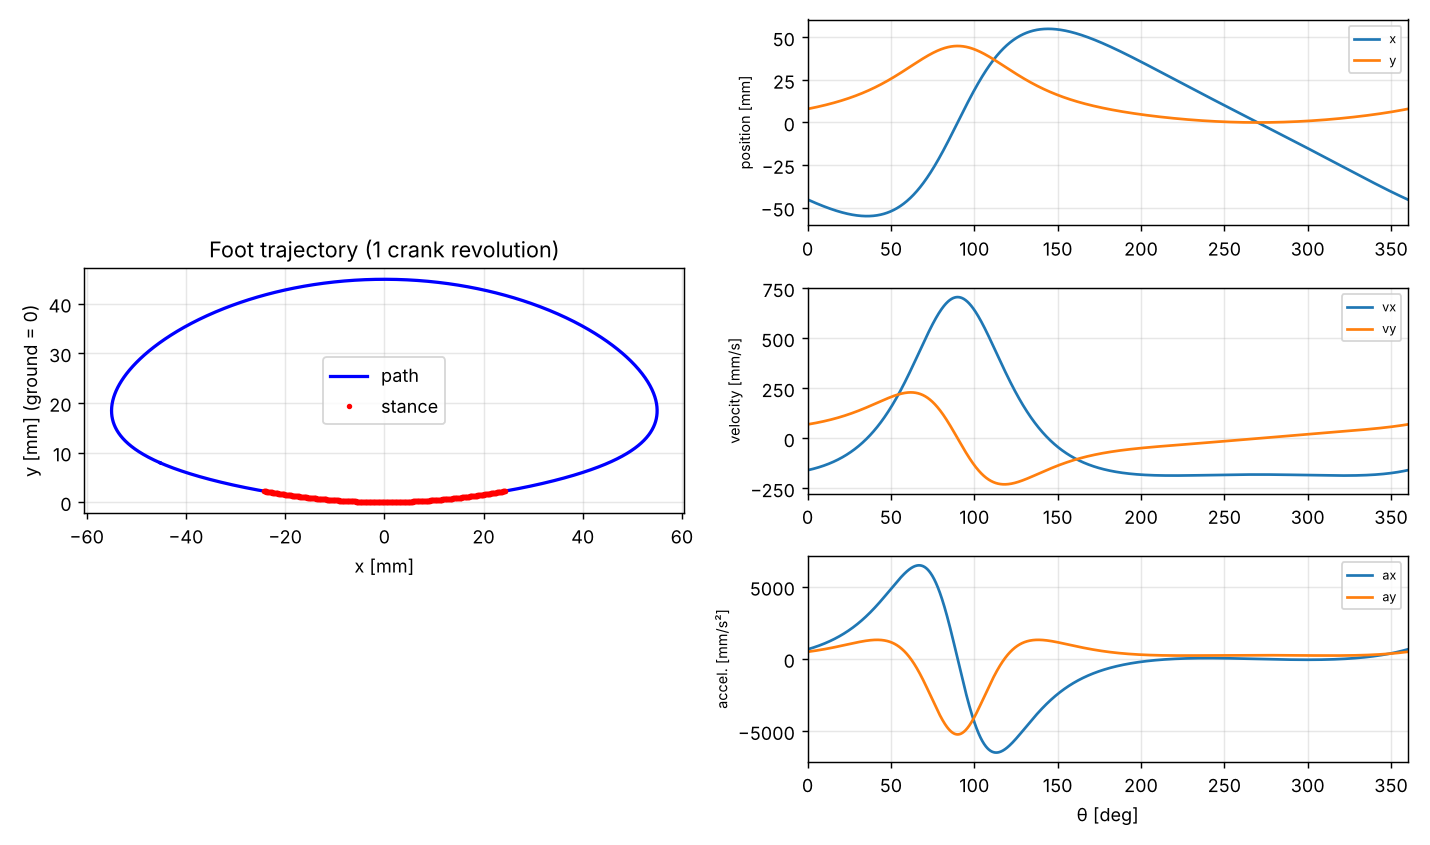
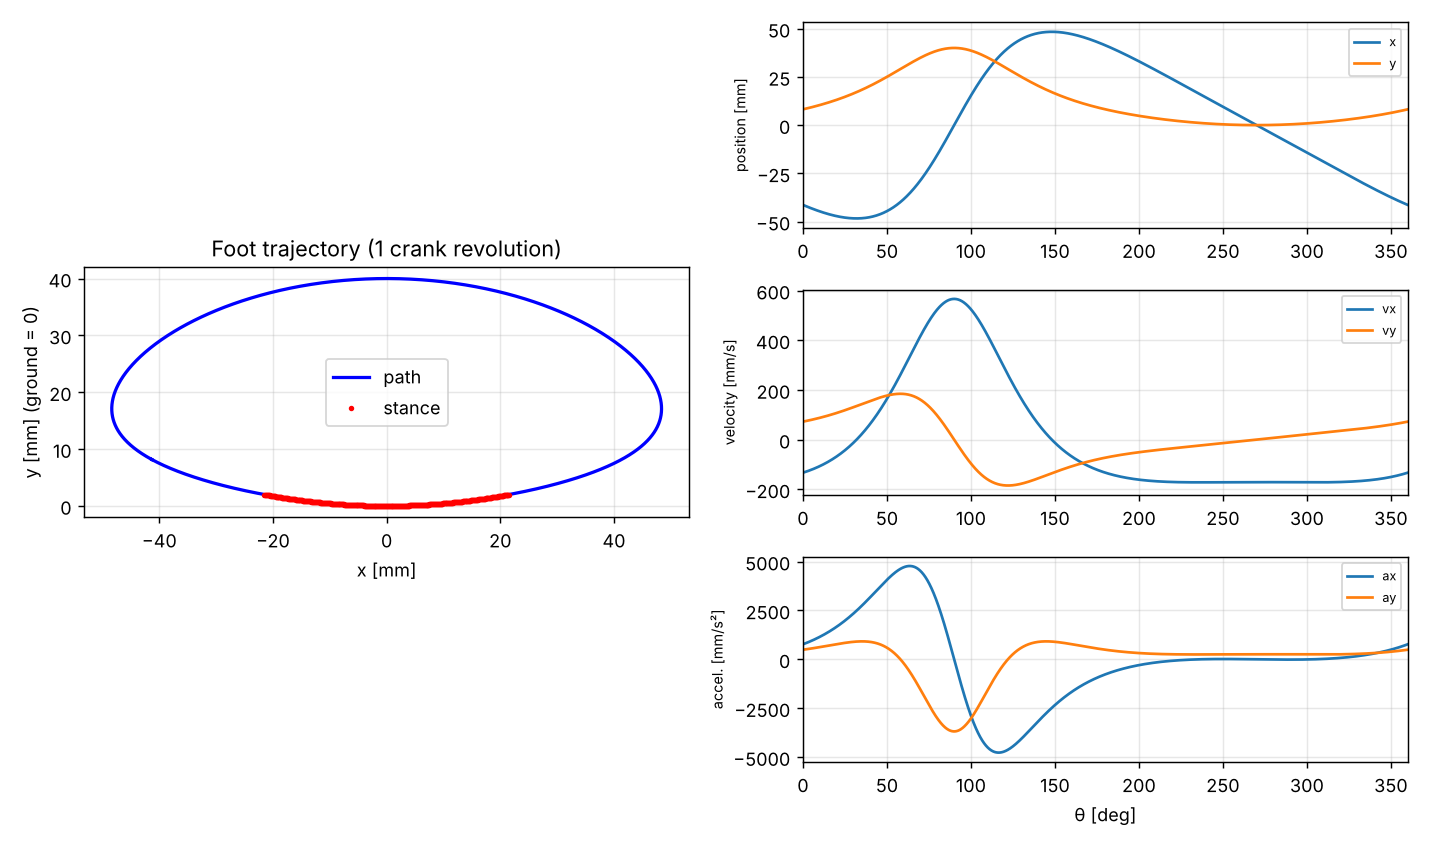
Use crank radius r = 20 mm (matches Simscape model); update results and figures

diff --git a/simulation/Symbolic_Math_verFinally.m b/simulation/Symbolic_Math_verFinally.m
@@ -27,7 +27,7 @@ fprintf('--- DOF (Grubler-Equation) ---\n Nl=%d  J1=%d  J2=%d  ->  F = %d\n\n',N
 syms r d L H omega positive      % ขนาดทางเรขาคณิต และความเร็วเชิงมุมคงที่
 syms th real                     % มุมก้านหมุน  th = omega*t
 %% STEP 1b : ค่าพารามิเตอร์ตัวเลข (หน่วย mm, rad/s) - ใช้ชุดเดียวกันทั้งไฟล์
-p.r = 22.465;  p.d = 50.00;  p.L = 165.22;  p.H = 273.582;  p.w = 2*pi;   % 60 rpm
+p.r = 20.00;  p.d = 50.00;  p.L = 165.22;  p.H = 273.582;  p.w = 2*pi;   % 60 rpm
 assert(p.d > p.r && p.L > p.d + p.r, 'ค่าพารามิเตอร์ละเมิดเงื่อนไขการประกอบ');
 %% STEP 2 : ตำแหน่งหมุด และปลอก
 P = [ r*cos(th); r*sin(th) ];

diff --git a/README.md b/README.md
@@ -30,7 +30,7 @@
 
 ![แผนภาพลิงก์และจุดต่อของกลไกเดินขาเดียว](media/links_joints.png)
 
-ก้านหมุน (crank) รัศมี $r$ หมุนรอบจุด $O$ ที่ 60 rpm หมุด $P$ บนก้านหมุนขับก้านแดงยาว $L$ ซึ่งลอดผ่านปลอก $Y$ ที่ $(0, d)$ ไปสิ้นสุดที่ปลายบน $T$ ขาต่อกับ $T$ และวิ่งผ่านตัวเลื่อนในร่องแนวนอน ขาจึงตั้งตรงเสมอ เท้า $F$ อยู่ใต้ $T$ เป็นระยะ $H$
+ก้านหมุน (crank) รัศมี $r$ หมุนรอบจุด $O$ ที่ 60 rpm หมุด $P$ บนก้านหมุนขับก้านแดงยาว $L$ ซึ่งลอดผ่านปลอก $Y$ ที่ $(0, d)$ ไปสิ้นสุดที่ปลายบน $T$ ขาต่อกับ $T$ ผ่านแขนสั้นที่ยื่นไปตามแนวแกนก้านหมุน และวิ่งผ่านตัวเลื่อนบนแกนนอนซึ่งอยู่ต่ำกว่า $O$ 50 mm ขาจึงตั้งตรงเสมอ เมื่อมองด้านหน้า เท้า $F$ อยู่ใต้ $T$ เป็นระยะ $H$
 
 | ลิงก์ | ชิ้นส่วน |
 |---|---|
@@ -78,17 +78,17 @@ v=\omega\frac{dF}{d\theta},\qquad a=\omega^2\frac{d^2F}{d\theta^2}
 
 ### ผลลัพธ์
 
-พารามิเตอร์: $r = 22.465$, $d = 50$, $L = 165.22$, $H = 273.582$ mm, 60 rpm
+พารามิเตอร์: $r = 20$, $d = 50$, $L = 165.22$, $H = 273.582$ mm, 60 rpm ($r$ และ $d$ ตรงกับตำแหน่งข้อต่อในแบบจำลอง Simscape)
 
 | ค่า | ผล |
 |---|---|
-| ช่วงก้าวของเท้า (stride) | 110.0 mm |
-| ความสูงยกเท้า (step height) | 44.9 mm |
-| Duty factor (ช่วงแตะพื้นต่อรอบ) | 0.27 |
-| ความเร็วเท้าช่วงแตะพื้น (เฉลี่ย) | 182.9 mm/s (แกว่ง 0.9 %) |
-| ระยะเท้าลากช่วงแตะพื้นต่อรอบ | 48.7 mm |
-| ความเร็วเท้าสูงสุด | 705.8 mm/s |
-| ความเร่งเท้าสูงสุด | 6588 mm/s² |
+| ช่วงก้าวของเท้า (stride) | 96.7 mm |
+| ความสูงยกเท้า (step height) | 40.0 mm |
+| Duty factor (ช่วงแตะพื้นต่อรอบ) | 0.25 |
+| ความเร็วเท้าช่วงแตะพื้น (เฉลี่ย) | 171.4 mm/s (แกว่ง 0.2 %) |
+| ระยะเท้าลากช่วงแตะพื้นต่อรอบ | 43.0 mm |
+| ความเร็วเท้าสูงสุด | 566.4 mm/s |
+| ความเร่งเท้าสูงสุด | 4836 mm/s² |
 
 ถือว่าเท้าแตะพื้นเมื่อสูงไม่เกิน 5 % ของความสูงยกเท้า
 

diff --git a/simulation/README.md b/simulation/README.md
@@ -30,7 +30,7 @@
 **พารามิเตอร์ที่ใช้ (หน่วย mm, rad/s)**
 | `r` | `d` | `L` | `H` | ω |
 |---|---|---|---|---|
-| 22.465 | 50.00 | 165.22 | 273.582 | 2π (60 rpm) |
+| 20.00 | 50.00 | 165.22 | 273.582 | 2π (60 rpm) |
 
 **วิธีรัน**
 - ต้องมี MATLAB + **Symbolic Math Toolbox**
